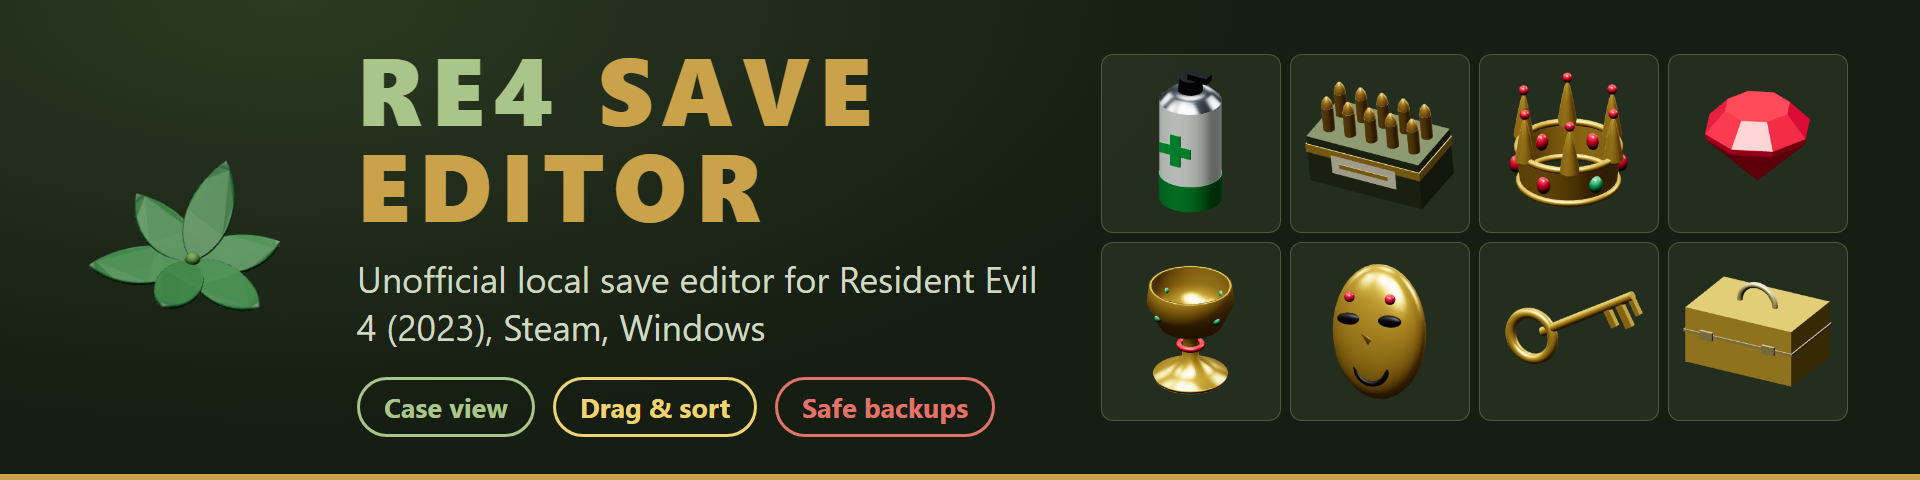
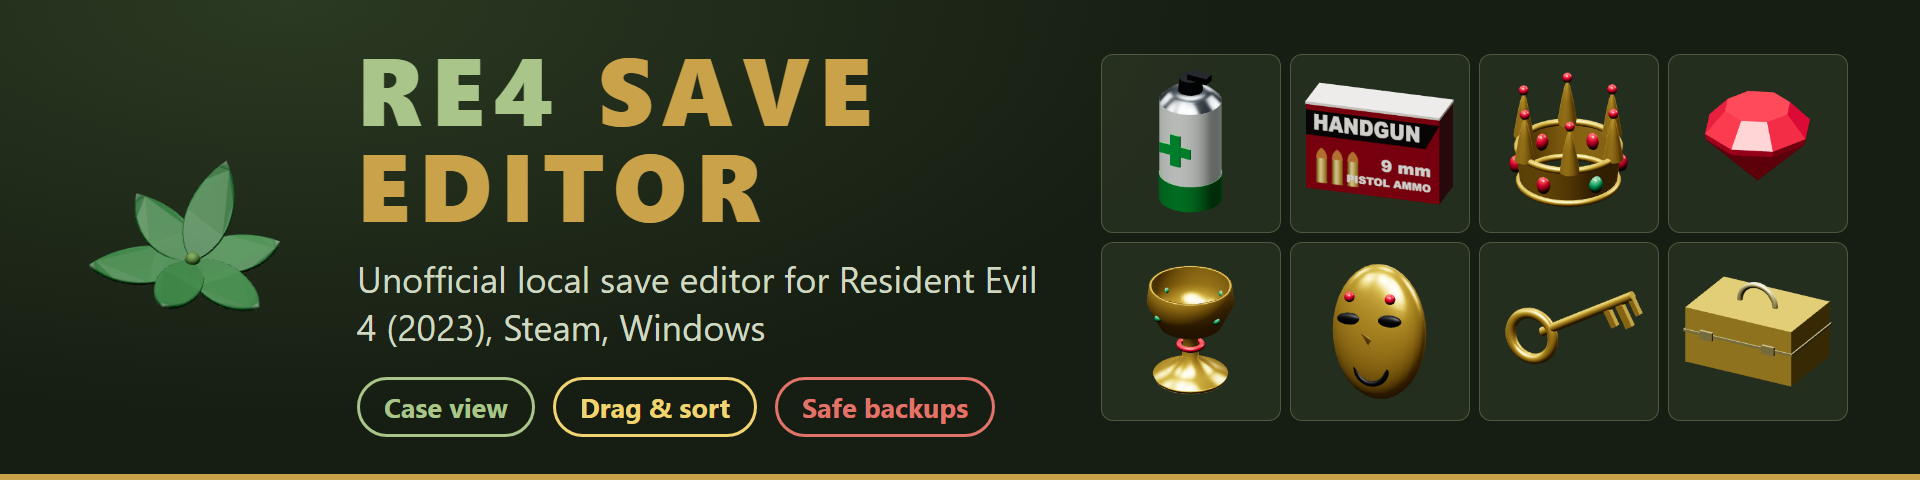
New pictures for ammunition boxes, gunpowder and resources
Closer to how they look in the game; labels and pictograms are our own.

Changed region(s): [[0.6562, 0.1562, 0.7812, 0.4375]]

diff --git a/scripts/icon-render/builders-extra.js b/scripts/icon-render/builders-extra.js
@@ -163,5 +163,94 @@ export function makeExtra(THREE) {
     const base = M(c, 0.35, 0.3); cyl(g, 0.8, 0.22, base, 0, 0, 0, 36).rotation.x = Math.PI / 2; torus(g, 0.8, 0.06, gold, 0, 0, 0.11);
     const f = i % 3; if (f === 0) sph(g, 0.4, M(0xf0d8b8, 0, 0.5), 0, 0.05, 0.25, 1, 1.1, 0.7); else if (f === 1) { add(g, new THREE.OctahedronGeometry(0.45, 0), M(0xf0f0f0, 0.3, 0.3), 0, 0, 0.25); } else { add(g, new THREE.ConeGeometry(0.4, 0.9, 5), M(0xf0f0f0, 0.3, 0.3), 0, 0, 0.25).rotation.x = Math.PI / 2 * 0.0; }
     g.userData.view = [0.2, -0.45]; return g; }; });
+  // ---------- ammunition boxes, gunpowder and resources: colours and shapes as in the game, labels and pictograms of our own
+  const canvasTex = (w, h, draw) => { const c = document.createElement('canvas'); c.width = w; c.height = h; draw(c.getContext('2d'), w, h); const t = new THREE.CanvasTexture(c); t.colorSpace = THREE.SRGBColorSpace; t.anisotropy = 8; return t; };
+  const printed = (tex) => new THREE.MeshStandardMaterial({ map: tex, metalness: 0, roughness: 0.55 });
+  const label = (x, text, px, py, size, color, o = {}) => { x.font = (o.style || '900') + ' ' + size + 'px "Arial Narrow", Impact, sans-serif'; x.fillStyle = color; x.textAlign = o.align || 'left'; x.textBaseline = 'middle'; if (o.stroke) { x.lineWidth = size / 10; x.strokeStyle = o.stroke; x.strokeText(text, px, py, o.max); } x.fillText(text, px, py, o.max); };
+  // a standing round seen from the side: type 'pistol' | 'rifle' | 'shell' | 'magnum'
+  const round = (x, cx, bottom, w, h, type) => {
+    const brassG = x.createLinearGradient(cx - w / 2, 0, cx + w / 2, 0); brassG.addColorStop(0, '#7a5a1c'); brassG.addColorStop(0.4, '#f4d98a'); brassG.addColorStop(1, '#8a671f');
+    if (type === 'shell') {
+      x.fillStyle = '#c2362b'; x.fillRect(cx - w / 2, bottom - h, w, h * 0.76); x.fillStyle = brassG; x.fillRect(cx - w / 2 - 3, bottom - h * 0.26, w + 6, h * 0.26); return;
+    }
+    const neck = type === 'rifle' ? 0.42 : 0.3;
+    x.fillStyle = brassG; x.fillRect(cx - w / 2, bottom - h * (1 - neck), w, h * (1 - neck)); x.fillRect(cx - w / 2 - 3, bottom - 8, w + 6, 8);
+    if (type === 'rifle') { x.beginPath(); x.moveTo(cx - w / 2, bottom - h * 0.58); x.lineTo(cx - w * 0.3, bottom - h * 0.7); x.lineTo(cx + w * 0.3, bottom - h * 0.7); x.lineTo(cx + w / 2, bottom - h * 0.58); x.fill(); }
+    const tipW = type === 'rifle' ? w * 0.6 : w; x.fillStyle = type === 'magnum' ? '#d4d9de' : '#c07a3e';
+    x.beginPath(); x.moveTo(cx - tipW / 2, bottom - h * (1 - neck)); x.quadraticCurveTo(cx - tipW / 2, bottom - h * 0.9, cx, bottom - h); x.quadraticCurveTo(cx + tipW / 2, bottom - h * 0.9, cx + tipW / 2, bottom - h * (1 - neck)); x.fill();
+  };
+  const boxArt = {
+    handgun: { side: 0x6d1214, draw: (x) => { x.fillStyle = '#8e161a'; x.fillRect(0, 0, 768, 512); x.fillStyle = '#17100f'; x.beginPath(); x.moveTo(0, 40); x.lineTo(768, 40); x.lineTo(690, 190); x.lineTo(0, 190); x.fill();
+      label(x, 'HANDGUN', 40, 118, 132, '#f4efe6', { max: 620 }); [90, 180, 270].forEach((cx) => round(x, cx, 470, 62, 210, 'pistol')); label(x, '9 mm', 720, 330, 96, '#f4efe6', { align: 'right' }); label(x, 'PISTOL AMMO', 720, 430, 62, '#f4efe6', { align: 'right' }); } },
+    shotgun: { side: 0xa8b41e, draw: (x) => { x.fillStyle = '#14703f'; x.fillRect(0, 0, 768, 512); x.fillStyle = '#c9cf2a'; x.fillRect(0, 400, 768, 112);
+      label(x, 'SHOTGUN', 384, 90, 140, '#f6f1da', { align: 'center', max: 700 }); x.strokeStyle = '#d9d437'; x.lineWidth = 12; for (const r of [110, 62, 18]) { x.beginPath(); x.arc(210, 270, r, 0, 7); x.stroke(); } [470, 560, 650].forEach((cx) => round(x, cx, 372, 66, 190, 'shell')); label(x, '12 GAUGE SLUGS', 384, 456, 74, '#14381f', { align: 'center', max: 720 }); } },
+    smg: { side: 0x1d3a7c, draw: (x) => { const g = x.createLinearGradient(0, 0, 768, 512); g.addColorStop(0, '#dfe5ee'); g.addColorStop(0.55, '#5b78b4'); g.addColorStop(1, '#1d3a7c'); x.fillStyle = g; x.fillRect(0, 0, 768, 512);
+      x.fillStyle = '#f4f6fa'; x.beginPath(); x.moveTo(0, 0); x.lineTo(250, 0); x.lineTo(0, 190); x.fill(); label(x, 'SMG', 40, 290, 190, '#1a2f78', { stroke: '#eef2f8', max: 330 }); [470, 540, 610, 680].forEach((cx) => round(x, cx, 330, 50, 200, 'pistol')); label(x, '9 mm  ·  50', 40, 430, 88, '#f4f6fa'); } },
+    magnum: { side: 0x14100f, draw: (x) => { x.fillStyle = '#141011'; x.fillRect(0, 0, 768, 512); x.fillStyle = '#c4231f'; x.fillRect(0, 360, 768, 152);
+      const g = x.createLinearGradient(0, 50, 0, 190); g.addColorStop(0, '#f2433a'); g.addColorStop(1, '#8e1713'); label(x, 'MAGNUM', 384, 125, 168, g, { align: 'center', max: 720, stroke: '#e9e3dc' }); [300, 384, 468].forEach((cx) => round(x, cx, 340, 56, 140, 'magnum')); label(x, '.45  CENTERFIRE', 384, 436, 84, '#141011', { align: 'center', max: 700 }); } },
+    rifle: { side: 0xc9cdd2, draw: (x) => { x.fillStyle = '#eceeef'; x.fillRect(0, 0, 768, 512); x.fillStyle = '#8b929b'; x.fillRect(0, 0, 768, 76); label(x, 'T A C T I C A L', 384, 40, 52, '#f4f5f6', { align: 'center' });
+      for (const [y, len] of [[130, 300], [200, 340], [270, 300]]) { x.save(); x.translate(748, y); x.rotate(-Math.PI / 2); round(x, 0, 0, 44, len, 'rifle'); x.restore(); }
+      label(x, 'RIFLE', 36, 220, 180, '#b3202a', { max: 400 }); label(x, 'RIFLE CARTRIDGES', 36, 400, 66, '#b3202a'); label(x, '.223  ·  50', 36, 465, 56, '#4a4f56'); } },
+  };
+  const ammoBoxModel = (kind) => () => {
+    const g = new THREE.Group(); const a = boxArt[kind]; const face = printed(canvasTex(768, 512, a.draw));
+    const side = M(a.side, 0, 0.6); add(g, new THREE.BoxGeometry(2.4, 1.6, 0.8), [side, side, side, side, face, side], 0, 0, 0);
+    add(g, new THREE.BoxGeometry(2.42, 0.05, 0.82), M(0xd9d4c8, 0, 0.7), 0, 0.805, 0);
+    g.userData.view = [0.42, -0.3]; return g;
+  };
+  for (const k of ['handgun', 'shotgun', 'smg', 'magnum', 'rifle']) B['ammo_' + k] = ammoBoxModel(k);
+
+  B.gunpowder = () => {
+    const g = new THREE.Group(); const tin = M(0x33363a, 0.65, 0.5);
+    const top = canvasTex(512, 512, (x) => {
+      x.fillStyle = '#2b2d30'; x.beginPath(); x.arc(256, 256, 256, 0, 7); x.fill(); x.strokeStyle = '#26406e'; x.lineWidth = 14; x.beginPath(); x.arc(256, 256, 232, 0, 7); x.stroke();
+      const text = 'GUNPOWDER'; x.fillStyle = '#e9e4d2'; x.font = '900 66px Impact, "Arial Narrow", sans-serif'; x.textAlign = 'center'; x.textBaseline = 'middle';
+      [...text].forEach((ch, i) => { const a = -1.05 + (i * 2.1) / (text.length - 1); x.save(); x.translate(256 + Math.sin(a) * 180, 256 - Math.cos(a) * 180); x.rotate(a); x.fillText(ch, 0, 0); x.restore(); });
+      const gold = x.createLinearGradient(0, 200, 0, 380); gold.addColorStop(0, '#ffe27a'); gold.addColorStop(1, '#b9801a'); x.fillStyle = gold;
+      x.beginPath(); x.moveTo(90, 370); x.quadraticCurveTo(190, 330, 270, 220); x.quadraticCurveTo(350, 300, 430, 370); x.quadraticCurveTo(260, 400, 90, 370); x.fill();
+      let r = 7; const rnd = () => (r = (r * 16807) % 2147483647) / 2147483647; for (let i = 0; i < 520; i++) { const px = 100 + rnd() * 320, py = 372 - rnd() * Math.max(4, 150 - Math.abs(px - 270) * 0.95); x.fillStyle = rnd() < 0.5 ? '#fff0a0' : '#9a6a14'; x.fillRect(px, py, 4, 4); }
+      round(x, 165, 372, 62, 220, 'pistol'); label(x, 'DANGER · FLAMMABLE', 256, 412, 28, '#d8d3c2', { align: 'center', max: 260 });
+    });
+    top.center.set(0.5, 0.5); top.rotation = Math.PI / 2; // the cap of a cylinder is mapped turned by a quarter
+    add(g, new THREE.CylinderGeometry(1.2, 1.2, 0.55, 64), [tin, new THREE.MeshStandardMaterial({ map: top, color: 0xa9a9a9, metalness: 0, roughness: 0.85 }), tin], 0, 0, 0);
+    const ring = (y, r, t, m) => { add(g, new THREE.TorusGeometry(r, t, 12, 64), m, 0, y, 0).rotation.x = Math.PI / 2; };
+    ring(0.275, 1.19, 0.045, M(0x787d83, 0.8, 0.35)); ring(-0.03, 1.215, 0.03, M(0x17191c, 0.5, 0.6)); ring(-0.275, 1.19, 0.045, M(0x55595e, 0.7, 0.4));
+    g.userData.view = [0.9, 0]; return g;
+  };
+
+  // a sack lying on its side with scrap spilling out of the mouth
+  const bag = (cloth, stuff, seed) => () => {
+    const g = new THREE.Group(); let r = seed; const rnd = () => (r = (r * 16807) % 2147483647) / 2147483647;
+    const weave = canvasTex(256, 256, (x) => { x.fillStyle = cloth; x.fillRect(0, 0, 256, 256); for (let i = 0; i < 5200; i++) { x.fillStyle = rnd() < 0.5 ? 'rgba(0,0,0,.22)' : 'rgba(255,255,255,.09)'; x.fillRect(rnd() * 256, rnd() * 256, 2 + rnd() * 3, 1.5); } });
+    const geo = new THREE.SphereGeometry(1, 120, 80); const pos = geo.attributes.position; const v = new THREE.Vector3();
+    // profile along the sack: x position, half height, half width (mouth -> body -> gathered part -> flat flaring end)
+    const prof = [[-1.15, 0.6, 0.72], [-0.7, 0.72, 0.9], [0.0, 0.62, 0.85], [0.55, 0.4, 0.55], [0.9, 0.2, 0.42], [1.3, 0.14, 0.72], [1.75, 0.05, 0.9]];
+    const at = (x, i) => { let k = 1; while (k < prof.length - 1 && x > prof[k][0]) k++; const p0 = prof[k - 1], p1 = prof[k]; const f = Math.min(1, Math.max(0, (x - p0[0]) / (p1[0] - p0[0]))); return p0[i] + (p1[i] - p0[i]) * f; };
+    for (let i = 0; i < pos.count; i++) {
+      v.fromBufferAttribute(pos, i);
+      const t = (v.x + 1) / 2; const x = -1.15 + t * 2.9; const ang = Math.atan2(v.y, v.z);
+      const fold = 1 + 0.11 * Math.sin(ang * 5 + x * 4) * Math.sin(x * 3 + 1) + 0.07 * Math.sin(x * 9 + ang * 3) + 0.04 * Math.sin(x * 17 - ang * 7);
+      const y = Math.sin(ang) * at(x, 1) * fold, z = Math.cos(ang) * at(x, 2) * (2 - fold) + (x > 0.9 ? 0.12 * Math.sin(x * 7) : 0);
+      pos.setXYZ(i, x, Math.max(-0.5, y), z);
+    }
+    geo.computeVertexNormals();
+    add(g, geo, new THREE.MeshStandardMaterial({ map: weave, roughness: 0.95, metalness: 0 }), 0, 0, 0);
+    const hole = add(g, new THREE.CircleGeometry(0.62, 40), M(0x0d0b0a, 0, 1), -1.16, 0.02, 0); hole.rotation.y = -Math.PI / 2; hole.scale.set(1.08, 0.88, 1);
+    const lip = add(g, new THREE.TorusGeometry(0.64, 0.085, 12, 48), new THREE.MeshStandardMaterial({ map: weave, roughness: 0.95 }), -1.09, 0, 0); lip.rotation.y = Math.PI / 2; lip.scale.set(1.08, 0.9, 1); lip.position.x = -1.14;
+    const mats = stuff.map((c) => M(c, 0.75, 0.42));
+    const m = () => mats[Math.floor(rnd() * mats.length)];
+    for (let i = 0; i < 70; i++) {
+      const piece = new THREE.Group(); const kind = Math.floor(rnd() * 4); const mm = m();
+      if (kind === 0) add(piece, new THREE.CylinderGeometry(0.09 + rnd() * 0.08, 0.09 + rnd() * 0.08, 0.22 + rnd() * 0.3, 14), mm);
+      else if (kind === 1) { const R = 0.1 + rnd() * 0.13; add(piece, new THREE.CylinderGeometry(R, R, 0.07, 20), mm); for (let t = 0; t < 8; t++) { const a = t * Math.PI / 4; add(piece, new THREE.BoxGeometry(0.06, 0.07, 0.06), mm, Math.cos(a) * (R + 0.02), 0, Math.sin(a) * (R + 0.02)).rotation.y = -a; } add(piece, new THREE.CylinderGeometry(R * 0.3, R * 0.3, 0.09, 12), M(0x15120f, 0.3, 0.8)); }
+      else if (kind === 2) add(piece, new THREE.TorusGeometry(0.07 + rnd() * 0.07, 0.03, 8, 18), mm);
+      else add(piece, new THREE.BoxGeometry(0.1 + rnd() * 0.3, 0.05 + rnd() * 0.08, 0.06 + rnd() * 0.1), mm);
+      const out = rnd(); piece.position.set(-1.15 - out * 1.05, -0.46 + rnd() * (0.8 * (1 - out) * (1 - out)), (rnd() - 0.5) * (1.05 + out * 0.9)); piece.scale.setScalar(1 - out * 0.35);
+      piece.rotation.set(rnd() * 3, rnd() * 3, rnd() * 3); g.add(piece);
+    }
+    g.userData.view = [0.72, 0.42, -0.36]; return g;
+  };
+  B.resources_s = bag('#2c3c63', [0x8a4a28, 0x6f3a22, 0xa0603a, 0x4a3024], 11); // blue sack, rusty scrap
+  B.resources_l = bag('#7d5a3a', [0xaeb4ba, 0x787f86, 0xc9a24e, 0x55595e], 29); // brown sack, gears and brass
   return B;
 }

diff --git a/CHANGELOG.md b/CHANGELOG.md
@@ -1,6 +1,7 @@
 # Changelog
 
 ## Unreleased (for 0.9.5)
+- New pictures for the ammunition boxes (a colour for every kind), the gunpowder tin and the two bags of resources, closer to how they look in the game.
 - The Inventory lists show the picture of every item and weapon instead of the category sign.
 - **Undo** (button and Ctrl+Z): takes back the last changes one by one, up to 30.
 - Keys in the Case view for the selected item: R rotate, Delete remove, arrows move, Esc deselect.
